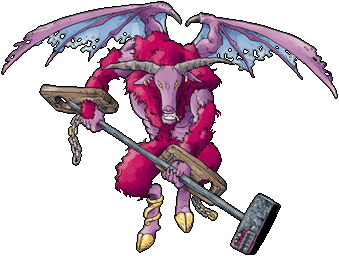
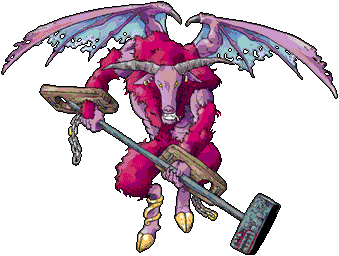
[ActorStatsWindow] Fixed.

diff --git a/source/states/BattleState.cpp b/source/states/BattleState.cpp
@@ -52,6 +52,8 @@ BattleState::BattleState(Troop *troop, bool allowDefeat) {
 	m_victorywin.init(&m_battle);
 
 	gk::AudioPlayer::playMusic("music-battle");
+
+	m_actorStatswin.setBattle(&m_battle);
 }
 
 void BattleState::update() {
@@ -274,57 +276,58 @@ void BattleState::draw(gk::RenderTarget &target, gk::RenderStates states) const 
 	if(m_mode != Mode::GameOver) {
 		target.draw(m_battle, states);
 
-	// 	m_actorStatswin.drawEnemies(m_battle.enemies());
-    //
-	// 	if(m_mode == Mode::Choice) {
-	// 		m_battleChoicewin.draw();
-	// 	}
-    //
-	// 	if(m_mode == Mode::Action) {
-	// 		m_battleActionwin.draw(m_currentPos);
-	// 	}
-    //
-	// 	if(m_mode == Mode::ItemWin) {
-	// 		m_itemwin->draw();
-	// 	}
-    //
-	// 	if(m_mode == Mode::ChooseActorTarget) {
-	// 		m_battle.drawArrow(m_battle.getActor(m_arrowPos));
-	// 	}
-    //
-	// 	if(m_mode == Mode::ChooseEnemyTarget) {
-	// 		Enemy *enemy = m_battle.getEnemy(m_arrowPos);
-	// 		m_battle.drawArrow(enemy);
-	// 		m_infowin.drawTextCentered(enemy->name() + " [" + _t("HP") + ": " + std::to_string(enemy->hp()) + "/" + std::to_string(enemy->basehp()) + "]");
-	// 	}
-    //
-	// 	m_actorStatswin.drawActors(m_battle.actors());
-    //
-	// 	if(m_mode == Mode::ProcessActions) {
-	// 		if(m_processingAction) {
-	// 			if(m_battle.drawAction()) {
-	// 				m_processingAction = false;
-	// 				m_battle.popAction();
-	// 			}
-	// 		}
-	// 	}
-    //
-	// 	if(m_mode == Mode::Victory) {
-	// 		m_victorywin.draw();
-	// 	}
+		target.draw(m_actorStatswin, states);
+
+		if(m_mode == Mode::Choice) {
+			target.draw(m_battleChoicewin, states);
+		}
+
+		if(m_mode == Mode::Action) {
+			// m_battleActionwin.draw(m_currentPos);
+			target.draw(m_battleActionwin, states);
+		}
+
+		if(m_mode == Mode::ItemWin) {
+			target.draw(*m_itemwin, states);
+		}
+
+		// if(m_mode == Mode::ChooseActorTarget) {
+		// 	m_battle.drawArrow(m_battle.getActor(m_arrowPos));
+		// }
+
+		// if(m_mode == Mode::ChooseEnemyTarget) {
+		// 	Enemy *enemy = m_battle.getEnemy(m_arrowPos);
+		// 	m_battle.drawArrow(enemy);
+		// 	m_infowin.drawTextCentered(enemy->name() + " [" + _t("HP") + ": " + std::to_string(enemy->hp()) + "/" + std::to_string(enemy->basehp()) + "]");
+		// }
+
+		// if(m_mode == Mode::ProcessActions) {
+		// 	if(m_processingAction) {
+		// 		if(m_battle.drawAction()) {
+		// 			m_processingAction = false;
+		// 			m_battle.popAction();
+		// 		}
+		// 	}
+		// }
+
+		if(m_mode == Mode::Victory) {
+			target.draw(m_victorywin, states);
+		}
 	} else {
 		if(!m_allowDefeat) {
-	// 		if(m_gameoverAlpha < 256) m_gameover.setAlphaMod(m_gameoverAlpha);
-	// 		m_gameover.render();
-	// 		if(m_gameoverAlpha > 400) {
-	// 			ResourceHelper::getFont("default").print("Press A to continue", 3, 3, FONT_LARGE);
-	// 		}
+			// FIXME
+			// if(m_gameoverAlpha < 256) m_gameover.setAlphaMod(m_gameoverAlpha);
+			target.draw(m_gameover, states);
+			// FIXME
+			// if(m_gameoverAlpha > 400) {
+			// 	ResourceHelper::getFont("default").print("Press A to continue", 3, 3, FONT_LARGE);
+			// }
 		} else {
 			target.draw(m_battle, states);
 
-	// 		m_actorStatswin.drawEnemies(m_battle.enemies());
-    //
-	// 		m_actorStatswin.drawActors(m_battle.actors());
+			// m_actorStatswin.drawEnemies(m_battle.enemies());
+
+			// m_actorStatswin.drawActors(m_battle.actors());
 		}
 	}
 }

diff --git a/source/windows/ActorStatsWindow.cpp b/source/windows/ActorStatsWindow.cpp
@@ -20,38 +20,38 @@
 ActorStatsWindow::ActorStatsWindow() : Window(0, 319, SCREEN_WIDTH, SCREEN_HEIGHT - 319) {
 }
 
-// void ActorStatsWindow::drawActors(const std::vector<std::pair<u8, Actor*>> &actors) {
-// 	Window::draw();
-//
-// 	for(u8 i = 0 ; i < actors.size() ; i++) {
-// 		drawActor(actors[i].second, i);
-// 	}
-// }
-//
-// void ActorStatsWindow::drawActor(Actor *actor, u8 pos) {
-// 	BattleState &battleState = ((BattleState&)gk::ApplicationStateStack::getInstance().top());
-// 	u8 mode = battleState.mode();
-// 	if((mode == BattleState::Mode::Choice || mode == BattleState::Mode::EnemyTurn || mode == BattleState::Mode::ProcessActions || mode == BattleState::Mode::Victory)
-// 	|| (battleState.battle().actors()[battleState.currentPos()].second != actor)) {
-// 		actor->image().setColor(gk::Color::White);
-// 		actor->image()->setAlphaMod(190);
-// 	}
-//
-// 	drawBattler(actor, m_width / 4 * (pos + 0.5) - actor->image()->width() / 2, SCREEN_HEIGHT - actor->image()->height());
-//
-// 	printName(actor, 20 + m_width / 4 * pos, 20, m_width - 40);
-// 	printState(actor, 20 + m_width / 4 * pos, 116, m_width - 40);
-// 	printHP(actor, 20 + m_width / 4 * pos, 52, m_width / 4 * (pos + 1) - 20);
-// 	printSP(actor, 20 + m_width / 4 * pos, 84, m_width / 4 * (pos + 1) - 20);
-// }
-//
-// void ActorStatsWindow::drawEnemies(const std::vector<std::pair<u8, Enemy*>> &enemies) {
-// 	for(u8 i = 0 ; i < enemies.size() ; i++) {
-// 		drawEnemy(enemies[i].second, i, enemies.size());
-// 	}
-// }
-//
-// void ActorStatsWindow::drawEnemy(Enemy *enemy, u8 pos, u8 max) {
-// 	drawBattler(enemy, enemy->image()->posRect().x, enemy->image()->posRect().y);
-// }
+void ActorStatsWindow::draw(gk::RenderTarget &target, gk::RenderStates states) const {
+	Window::draw(target, states);
+
+	if (m_battle) {
+		for (auto &it : m_battle->actors())
+			drawActor(it.second, it.first, target, states);
+
+		for (auto &it : m_battle->enemies())
+			drawEnemy(it.second, target, states);
+	}
+}
+
+void ActorStatsWindow::drawActor(Actor *actor, u8 pos, gk::RenderTarget &target, gk::RenderStates states) const {
+	BattleState &battleState = ((BattleState&)gk::ApplicationStateStack::getInstance().top());
+	u8 mode = battleState.mode();
+	if((mode == BattleState::Mode::Choice || mode == BattleState::Mode::EnemyTurn || mode == BattleState::Mode::ProcessActions || mode == BattleState::Mode::Victory)
+	|| (battleState.battle().actors()[battleState.currentPos()].second != actor)) {
+		actor->image().setColor(gk::Color::White);
+		actor->image().setAlphaMod(190);
+	}
+
+	drawBattler(actor, m_width / 4 * (pos + 0.5) - actor->image().width() / 2, SCREEN_HEIGHT - actor->image().height(), target, states);
+
+	states.transform *= getTransform();
+
+	printName(actor, 20 + m_width / 4 * pos, 20, m_width - 40, target, states);
+	printState(actor, 20 + m_width / 4 * pos, 116, m_width - 40, target, states);
+	printHP(actor, 20 + m_width / 4 * pos, 52, m_width / 4 * (pos + 1) - 20, false, target, states);
+	printSP(actor, 20 + m_width / 4 * pos, 84, m_width / 4 * (pos + 1) - 20, false, target, states);
+}
+
+void ActorStatsWindow::drawEnemy(Enemy *enemy, gk::RenderTarget &target, gk::RenderStates states) const {
+	drawBattler(enemy, enemy->image().posRect().x, enemy->image().posRect().y, target, states);
+}
 

diff --git a/include/windows/ActorStatsWindow.hpp b/include/windows/ActorStatsWindow.hpp
@@ -14,19 +14,21 @@
 #ifndef ACTORSTATSWINDOW_HPP_
 #define ACTORSTATSWINDOW_HPP_
 
-#include "Actor.hpp"
-#include "Enemy.hpp"
+#include "Battle.hpp"
 #include "Window.hpp"
 
 class ActorStatsWindow : public Window {
 	public:
 		ActorStatsWindow();
 
-		// void drawActors(const std::vector<std::pair<u8, Actor*>> &actors);
-		// void drawActor(Actor *actor, u8 pos);
-        //
-		// void drawEnemies(const std::vector<std::pair<u8, Enemy*>> &enemies);
-		// void drawEnemy(Enemy *enemy, u8 pos, u8 max);
+		void setBattle(Battle *battle) { m_battle = battle; }
+
+	private:
+		void draw(gk::RenderTarget &target, gk::RenderStates states) const override;
+		void drawActor(Actor *actor, u8 pos, gk::RenderTarget &target, gk::RenderStates states) const;
+		void drawEnemy(Enemy *enemy, gk::RenderTarget &target, gk::RenderStates states) const;
+
+		Battle *m_battle = nullptr;
 };
 
 #endif // ACTORSTATSWINDOW_HPP_

diff --git a/source/windows/Window.cpp b/source/windows/Window.cpp
@@ -95,9 +95,8 @@ void Window::printExp(Battler *battler, s16 x, s16 y, s16 x2, bool onMaximum, gk
 }
 
 void Window::drawBattler(Battler *battler, s16 x, s16 y, gk::RenderTarget &target, gk::RenderStates states) const {
-	// battler->image().render(x, y);
-
-	// TODO
+	battler->image().setPosition(x, y);
+	target.draw(battler->image(), states);
 }
 
 void Window::printItem(Item *item, u16 count, s16 x, s16 y, u16 width, gk::RenderTarget &target, gk::RenderStates states) const {
